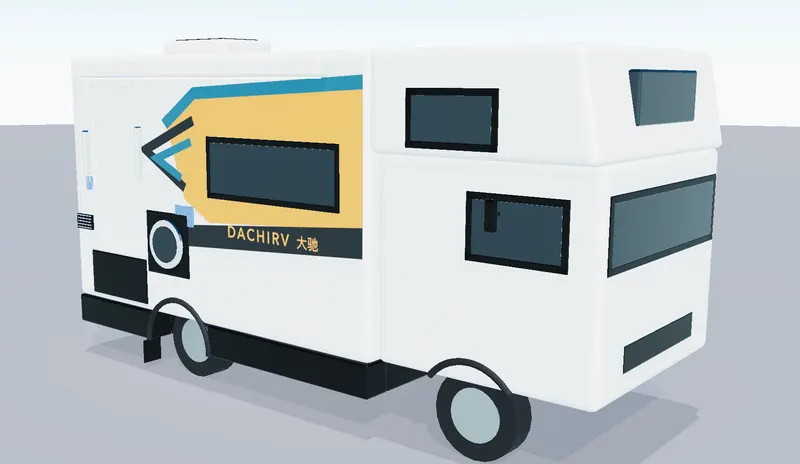
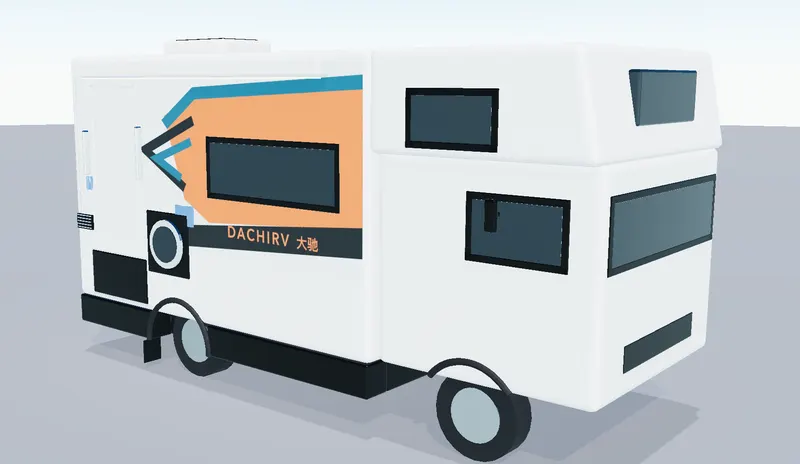
fix: compensate the livery artwork for the tone curve
The orange field rendered at hue 41.7 degrees where the same wrap in three
walkaround frames measures 26.5 to 30.2. ACES rotates saturated oranges toward
yellow as luminance rises, and no brightness lever reached it.

Rotating the authored palette pre-compensates for that rotation. Three rounds of
render_livery -> capture -> check_livery: the offset is hue-dependent (slope
~1.16, not a constant +9.5), and rotating toward red also raises saturation by
0.08, because ACES desaturates the yellow end hardest. The shipped 18.0 / 0.745
is where both land inside their bands, not the centre of either. Renders 26.2
with saturation 0.494.

This is a compensation, not a correction: it is tied to ACESFilmicToneMapping
and to exterior environmentIntensity 0.20. The SVG header, section 14 and the
record entry all say so, and check_livery.mjs will catch it if either moves.

Changed region(s): [[0.2188, 0.181, 0.4688, 0.5431]]

diff --git a/docs/specs/design_rv-interior-3d.md b/docs/specs/design_rv-interior-3d.md
@@ -727,15 +727,21 @@ Known gaps, carried deliberately:
   `environmentIntensity` went 0.45 -> 0.20, which puts the orange field at saturation 0.498
   against the 0.46 to 0.51 the same wrap measures in three walkaround frames. The teal and the
   near-black wordmark band came back with it.
-- **The livery's orange still reads gold rather than orange.** Saturation now matches the
-  photographs; hue does not. The field renders at 42 degrees against 15 to 27 in the frames and 32
-  in the flat artwork. This is the ACES curve's orange-to-yellow rotation at high luminance, and
-  **no brightness lever reaches it**: `environmentIntensity` crossed with `toneMappingExposure`
-  over thirteen combinations holds hue between 40 and 42 degrees throughout, while saturation
-  swings from 0.498 to 0.605. The remaining levers are a hue-preserving tone map — three ships
-  `AgXToneMapping` and `NeutralToneMapping` — or compensating in the artwork. The first re-tints
-  the whole app and every `?calibrate` number with it; the second reopens a palette the plan
-  settled. Neither is a tuning decision.
+- ~~**The livery's orange still reads gold rather than orange.**~~ Fixed by compensating in the
+  artwork — Option B of [plan_livery-hue.md](plan_livery-hue.md). The field renders at hue 26.2
+  against the 26.5 to 30.2 the wrap measures in three walkaround frames, saturation 0.494 inside
+  the same frames' band. **The orange in `model/side-livery.svg` is therefore no longer a sampled
+  colour.** It is authored at HSV 18.0 / 0.745 / 0.910, pre-rotated so that ACES lands it on the
+  photographs; the sampled `#e8912a` is recorded in the SVG header and superseded there. The
+  compensation is tied to `ACESFilmicToneMapping` and to the exterior `environmentIntensity` of
+  0.20, and a change to either makes the artwork wrong in the opposite direction. The teal and
+  the near-black band are untouched and remain sampled values.
+- **The tone curve still rotates orange toward yellow.** The artwork now cancels it for this one
+  decal at this one lighting. Nothing else that renders a saturated orange is compensated, and the
+  white body still clips at peak channel 246 against the photographs' `#7e8888` — the same root
+  cause, out of scope for the hue work. A hue-preserving curve (`AgXToneMapping`,
+  `NeutralToneMapping`) remains the treatment rather than the symptom, and taking it means
+  reverting this artwork compensation in the same pass.
 - **The white-balance patches in `calibrate.ts` were mirrored with the furniture** during the rear
   service room correction rather than re-verified against a marked screenshot. Two of the three
   sample the lounge, and the lounge is the half of the cabin that swapped sides.
@@ -1768,3 +1774,72 @@ wrong answer:
   spec's 120 fps figure has not been re-taken since this pass.
 - **The `?calibrate` patches still have not been re-verified against a marked screenshot**, for
   the fourth pass running.
+
+## Livery hue, compensated in the artwork — 2026-09-08
+
+The exterior fidelity pass fixed the livery's saturation and left its hue: the orange field
+rendered at 41.7 degrees against the 26.5 to 30.2 the same wrap measures in the walkaround frames.
+[plan_livery-hue.md](plan_livery-hue.md) carries the diagnosis and two candidate fixes. This
+records Option B, which pre-rotates the artwork so that what leaves ACES matches the photographs.
+It was taken because it cannot touch the interior at all: `body.graphic` is in
+`EXTERIOR_ROLES`, so the decal draws at the exterior and plan stops and nowhere else.
+
+### The offset is not a constant, so it was fitted rather than subtracted
+
+The plan's starting probe was 27 − 9.5 ≈ 17.5 degrees authored, from the single measured pair
+(32.5 authored renders at 41.7). Three rounds through
+`node tools/render_livery.mjs && pnpm capture && node tools/check_livery.mjs`:
+
+| Authored H / S | Rendered hue | Rendered saturation |
+|---|---|---|
+| 32.5 / 0.819 (as sampled) | 41.7 | 0.498 |
+| 16.0 / 0.819 | 22.6 | 0.581 |
+| 18.5 / 0.720 | 26.2 | 0.463 |
+| **18.0 / 0.745 (shipped)** | **26.2** | **0.494** |
+
+The authored-to-rendered hue slope is about 1.16, not 1.0, so the +9.5 offset at the artwork's own
+hue is only +6.6 by the time the field reaches 22.6 — one subtraction would have overshot to 22
+and it took a second point to see that.
+
+**Saturation had to be fitted alongside hue, which the plan did not anticipate.** ACES desaturates
+the yellow end hardest, so rotating the authored hue toward red partly undoes the desaturation
+that the earlier `environmentIntensity` retune had relied on: hue alone moved the field from 0.498
+to 0.581 and out of the photographed band. Pulling the authored saturation from 0.819 to 0.745
+puts it back. The two knobs pull against each other: every degree of hue taken out adds about
+0.005 of saturation, so the shipped value is the point where both land inside their bands, not
+the centre of either.
+
+The field's hue interquartile range is 26.0 to 26.2. The decal is one flat plane with a constant
+normal and nothing shadows it, so a single pre-rotation is uniformly correct here; the check
+reports the spread so that a future decal that wraps a corner or falls into shadow would show up.
+
+### Measured
+
+`node tools/check_livery.mjs dist/captures/exterior.png` passes. Teal and the near-black band are
+reported but not gated, and neither moved — they were not edited:
+
+| Field | Before | After |
+|---|---|---|
+| orange | `#edc977` hue 41.7, sat 0.498 | `#f2ae7a` hue **26.2**, sat **0.494** |
+| teal | `#304853` hue 199.4, sat 0.422 | `#304853` hue 199.4, sat 0.422 |
+| band | `#303c41` hue 196.7, sat 0.253 | `#303c41` hue 201.0, sat 0.242 |
+
+Draw calls and triangles are unchanged at every stop, which is the point of a texture-only change.
+151 tests and `tsc` clean; no test pinned a palette value.
+
+### The plan stop's check reading is not the livery
+
+`check_livery.mjs dist/captures/plan.png` reports hue 19.6 both before and after, byte for byte,
+from a blob that is 30% of the matching pixels at the bottom of the frame. That is interior
+woodwork, not the decal. The sectioned plan does show the decal, but not as the largest connected
+orange region, so the check's plan-stop reading measures something else and should not be read as
+a livery figure.
+
+### Left over
+
+- **The compensation is tied to the current curve and the current exterior lighting.** Taking
+  Option A later, `AgXToneMapping` or `NeutralToneMapping`, means reverting the artwork in the
+  same pass, or the orange overshoots toward red by the amount ACES was rotating it.
+- The white body still clips at peak channel 246 against the photographs' `#7e8888`. Same root
+  cause, deliberately out of scope.
+- The plan stop is still 3 draw calls over its ceiling, unchanged by this pass.
